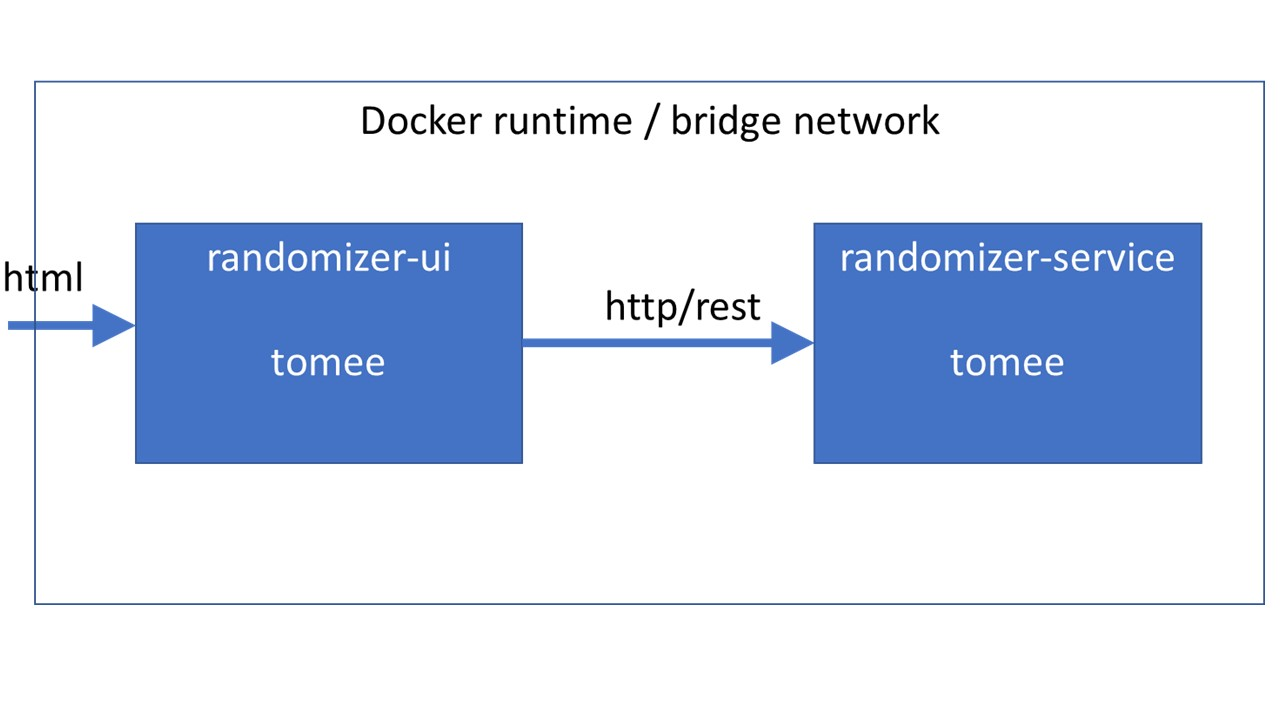
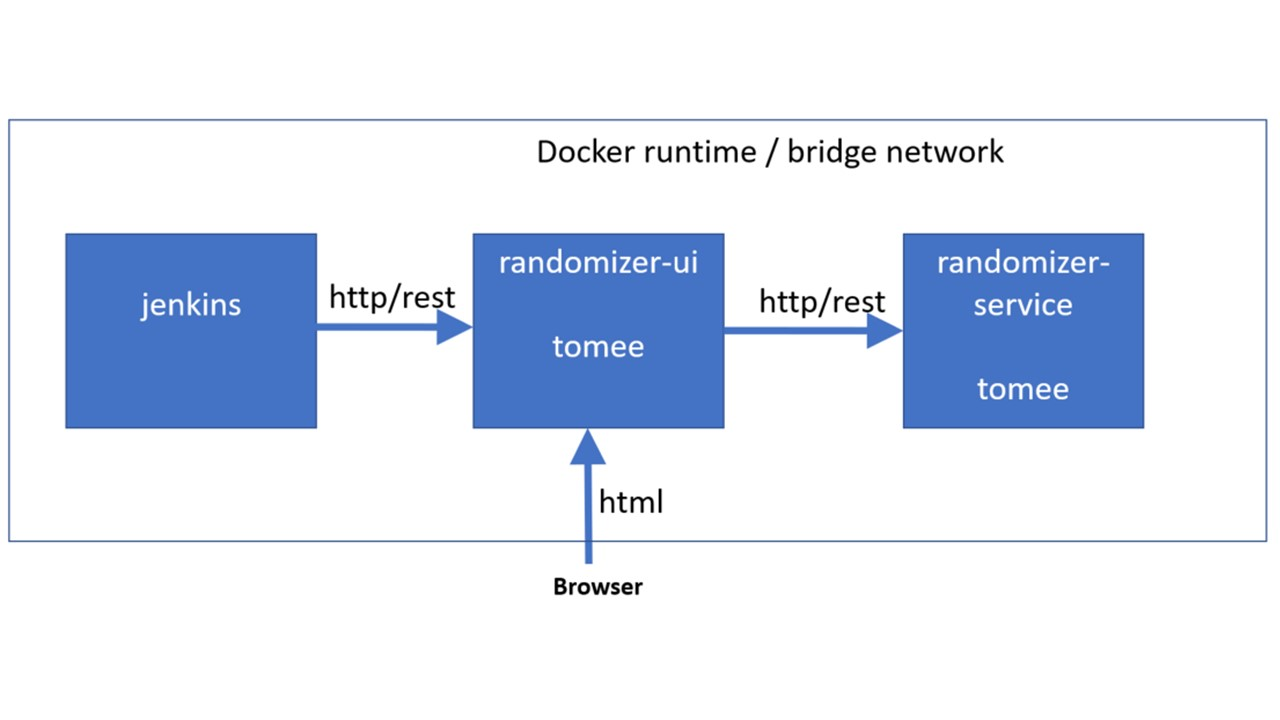
documentation

Changed region(s): [[0.0, 0.1528, 1.0, 0.8556], [0.0312, 0.0917, 0.9688, 0.1222]]

diff --git a/readme.html b/readme.html
@@ -1,0 +1,79 @@
+<p>We will keep the application logic very simplistic as we want to concentrate on DevOps: automated build, test and integration locally and on Jenkins.</p>
+<h2 id="get-the-basic-tools">Get the basic Tools</h2>
+<ul>
+<li>Download and install Java SE Development Kit 8 from <a href="https://www.oracle.com/technetwork/java/javase/downloads/jdk8-downloads-2133151.html" class="uri">https://www.oracle.com/technetwork/java/javase/downloads/jdk8-downloads-2133151.html</a>.</li>
+<li>Download and install Docker Desktop for Windows from <a href="https://docs.docker.com/docker-for-windows/install/" class="uri">https://docs.docker.com/docker-for-windows/install/</a>.</li>
+<li>Download and install Maven for Windows from <a href="https://maven.apache.org/download.cgi" class="uri">https://maven.apache.org/download.cgi</a>.</li>
+</ul>
+<h2 id="get-the-application">Get the Application</h2>
+<p>Clone the git repository</p>
+<pre><code>cd %homedrive%\%homepath%\git\
+git clone https://github.ibm.com/devops4us/randomizer.git</code></pre>
+<p>The following picture shows the architecture of our simple example application <code>Randomizer</code>.</p>
+<p><img src="pic001.jpg" /></p>
+<p>There are two servers in the runtime architecture. <code>randomizer-ui</code> is a HTML5 user interface application server based on the Vaadin Framework (<a href="https://vaadin.com/docs/index.html" class="uri">https://vaadin.com/docs/index.html</a>) and the Apache TomEE platform (<a href="http://tomee.apache.org/apache-tomee.html" class="uri">http://tomee.apache.org/apache-tomee.html</a>). The application is accessed from a browser. It demonstrates a simple UI visualising the generation of random numbers. The random generator itself is hosted on another server and is accessed from the user interface as HTTP/REST API. The <code>randomizer-ui</code> application server calls <code>randomizer-service</code>, which is also running on top of TomEE.</p>
+<p><strong>Development Environment:</strong> The developer can start each server locally on her development machine (Windows 10 Laptop in my case).</p>
+<p><strong>Test Environment:</strong> In order to be globally deployable for integration test, the servers are each packaged as docker images based on the TomeEE docker image (see <a href="https://docs.docker.com/samples/library/tomee/" class="uri">https://docs.docker.com/samples/library/tomee/</a>). Each server image runs in a separate docker container.</p>
+<h2 id="develop-the-servers-in-isolation">Develop the Servers in Isolation</h2>
+<p>Server Development often starts with isolated servers being started locally. This is especially true for the user interface server - the user interface can be tested by mocking away the backend services and provide test data. For our simplified sample, it is not necessary to mock the <code>randomizer-service</code>. In our UI application, in class <code>RandomizerBean</code>, if the service is not available, the value <code>-1</code> is simply generated as dummy random number.</p>
+<p>To run to UI service in isolation, execute the following in a DOS shell:</p>
+<pre><code>cd %homedrive%\%homepath%\git\randomizer\ui\
+mvn package tomee:run</code></pre>
+<p>If you see in the DOS shell that the server started successfully, open this URL in your favorite browser: <a href="http://localhost:9090/randomizer-ui" class="uri">http://localhost:9090/randomizer-ui</a>. If you click “Get Random Number from Server”, you’ll see -1 in the message box in your browser. This is ok, because the Randomizer Service is unavailable for now. We are still able to test the isolated UI, even if we get a dummy value instead of real random numbers.</p>
+<p>Note that we called the goal <code>tomee:run</code> in the maven command line above. The reason why we can do this is the TomEE Maven Plugin (<a href="http://tomee.apache.org/tomee-maven-plugin.html" class="uri">http://tomee.apache.org/tomee-maven-plugin.html</a>). If you include this plugin in your <code>pom.xml</code>, as we did, the above command line will start a local TomEE server which hosts just your web application, <code>randomizer-ui</code>in our case. See the TomEE documentation and the content of file <code>randomizer\ui\pom.xml</code>.</p>
+<h2 id="deploy-the-integrated-application-locally">Deploy the integrated Application locally</h2>
+<p>Now we enter the Docker world. A <em>Dockerfile</em> is used to define a docker image. Let’s take a look at file <code>.\Docker\ui\Dockerfile</code>.</p>
+<p><img src="pic003.jpg"/></p>
+<p>Line 1 defines the base image, which is a dockerized TomEE. Lines 2-3 configure the Tomcat Manager application to accept user/password <code>admin/admin</code> so we can access Tomcat Manager from the browser. Line 4 deploys the application <code>randomizer-ui</code> to TomEE as a web application by copying the package <code>randomizer-ui.war</code> to TomEE’s web application directory. The result of building with this Dockerfile is an image ready to be started as Docker container. Look at file <code>.\Docker\service\Dockerfile</code> which does the same for <code>randomizer-service</code>.</p>
+<p>Instead of starting each docker image manually with the docker command line, we use Docker Compose (<a href="https://docs.docker.com/compose/" class="uri">https://docs.docker.com/compose/</a>). With Compose, you define all the servers - the used images, their volume mappings, port mappings, networks, etc - in a single <em>Compose file</em>. They are then started and stopped together using Docker Compose command line. Note that beyond what is shown this tutorial, Docker Compose can be used to simplify various other tasks, e.g. access to the log files of all the running containers, see (<a href="https://docs.docker.com/compose/" class="uri">https://docs.docker.com/compose/</a>).</p>
+<p>Let’s have a look to the Compose file for our application, <code>.\Docker\docker-compose.yml</code>:</p>
+<p><img src="pic002.jpg"/></p>
+<p>Note that for each service, we define some networking parameters like networks (lines 4, 12), host name (lines 6, 1) and port mappings (lines 7-8, 15-16). As we do so, each service is accessible from within the Docker network by the defined host name and from outside by the defined ports. The characteristics of the Docker network itself are specified in lines 22-25, saying that our containers are be accessible from the virtual network <code>integration_net</code> which has to be defined elsewhere (<code>external</code>). Background is that the virtual network <code>integration_net</code> will be created and managed by the Jenkins build/integration server.</p>
+<p>The services are also accessible from the docker host (Windows 10 desktop in my case) as <code>localhost:9080</code> and <code>localhost:9090</code>. For instance, the user interface, once started in my local docker, is accessible from my Windows browser at URL <code>localhost:9090/randomizer-ui</code>. This is because we defined port mappings which make the docker containers accessible from the docker host machine.</p>
+<p>To start all the servers in Docker, Execute the following in a DOS shell:</p>
+<pre><code>cd %homedrive%\%homepath%\git\randomizer\Docker
+docker network create integration_net
+docker-compose up -d</code></pre>
+<p>Enter this URL in your favorite browser: <a href="http://localhost:9090/randomizer-ui" class="uri">http://localhost:9090/randomizer-ui</a>. If you click “Get Random Number from Server”, a positive number should appear in a message box. If you still see a -1, the Randomizer Service is not functioning. If you want to see the server logs, enter</p>
+<pre><code>cd %homedrive%\%homepath%\git\randomizer\Docker
+docker-compose logs</code></pre>
+<h2 id="run-local-integration-test">Run Local Integration Test</h2>
+<p>As we are able to launch all our servers in a local Docker, we can also run the server integration tests locally. For integration testing, we use the Maven lifecycle phases and the Maven Failsafe Plugin (<a href="http://maven.apache.org/surefire/maven-failsafe-plugin/" class="uri">http://maven.apache.org/surefire/maven-failsafe-plugin/</a>). The configuration can be viewed in file <code>.\ui\pom.xml</code> (the integration test cases are part of the ui project because in our example integration is tested via the ui service). In the POM-file, you can see that we configure a Maven profile named <code>integration-test</code> in which we do all the integration test preparation and execution.</p>
+<figure>
+<img src="pic004.jpg"/>
+<figcaption>
+<code>..xml</code>
+</figcaption>
+</figure>
+<p>The test preparation includes building the server images and starting the containers with <code>docker-compose</code> in lines 93-106. We use the Maven Antrun Plugin to execute the necessary <code>docker-compose</code> commands in the Maven <code>pre-integration-test</code> phase. After the integration test, we need to stop the containers, which is done in lines 107-117 above.</p>
+<p>To run the integration tests locally, execute the following in a DOS shell:</p>
+<pre><code>cd %homedrive%\%homepath%\git\git\randomizer\
+mvn -DPROFILE=integration -DRANDOMIZER_UI_NAME=localhost\^\
+-DRANDOMIZER_UI_PORT=9090 verify</code></pre>
+<h2 id="build-a-customized-jenkins-docker-image">Build a customized Jenkins Docker Image</h2>
+<p>The following ist the content of file <code>Jenkins\Jenkins-Dockerfile</code>. It is used to build the Jenkins Docker image.</p>
+<pre><code>1 from jenkinsci/blueocean
+2 USER root
+3 RUN apk add py-pip
+4 RUN apk add python-dev libffi-dev openssl-dev gcc libc-dev make
+5 RUN pip install docker-compose
+6 RUN apk add maven
+7 RUN adduser jenkins root
+8 COPY settings.xml /usr/share/java/maven-3/conf</code></pre>
+<p>Lines 3-5 install Docker Compose with the aid of python. Line 6 installs Maven. In line 7, we add ‘jenkins’ to the group of root users. This is necessary be able to access the docker daemon within the Jenkins server. Line 8 copies the customized maven configuration to Jenkins (this step is only necessary if you want to customize Maven).</p>
+<p>The Jenkins Blueocean image is available from Docker Hub: <a href="https://hub.docker.com/r/jenkinsci/blueocean/" class="uri">https://hub.docker.com/r/jenkinsci/blueocean/</a>. Look at this page: <a href="https://jenkins.io/doc/" class="uri">https://jenkins.io/doc/</a> for information on how to generally configure Jenkins. For information on how to install Docker Compose on Jenkins Blueocean, refer to this URL: <a href="https://wiki.alpinelinux.org/wiki/Docker" class="uri">https://wiki.alpinelinux.org/wiki/Docker</a>. For information on how to manage users and groups in the Linux Alpine image, see <a href="https://stackoverflow.com/questions/49955097/how-do-i-add-a-user-when-im-using-alpine-as-a-base-image" class="uri">https://stackoverflow.com/questions/49955097/how-do-i-add-a-user-when-im-using-alpine-as-a-base-image</a>.</p>
+<p>The following DOS shell commands create local Docker image jenkins-docker based on the above Dockerfile:</p>
+<pre><code>cd %homedrive%\\%homepath%\git\\randomizer\\Jenkins\
+docker image build -t jenkins-docker -f Jenkins-Dockerfile .</code></pre>
+<p>To start jenkins from the image the image <code>jenkins</code> image, run the following in a DOS shell:</p>
+<pre><code>docker network create integration_net
+ docker run^
+ -u jenkins^
+ -p 8080:8080 -p 50000:50000\^
+ -v //var/run/docker.sock:/var/run/docker.sock^
+ -v c:/volumeshare/jenkins_home:/var/jenkins_home^
+ --name jenkins^
+ --network=&quot;integration_net&quot;^
+ --rm^
+ -d^
+ jenkins-docker</code></pre>

diff --git a/readme.md b/readme.md
@@ -14,7 +14,7 @@ Get the Application
 Clone the git repository
 
  ```
- cd %homedrive%\%homepath%\
+ cd %homedrive%\%homepath%\git\
  git clone https://github.ibm.com/devops4us/randomizer.git
  ````
 
@@ -22,30 +22,32 @@ The following picture shows the architecture of our simple example application `
 
 <img src="pic001.jpg" width="50%" height="50%"/>
 
-There are two servers in the runtime architecture.
+There are two servers which implement our application as an integrated system.
 `randomizer-ui` is a HTML5 user interface application server based on the Vaadin Framework (<https://vaadin.com/docs/index.html>) and the Apache TomEE platform (<http://tomee.apache.org/apache-tomee.html>).
 The application is accessed from a browser. 
 It demonstrates a simple UI visualising the generation of random numbers.
 The random generator itself is hosted on another server and is accessed from the user interface as HTTP/REST API.
-The `randomizer-ui` application servier calls a rest API from `randomizer-service`, which is a rest service also running on top of TomEE.
+The `randomizer-ui` application server calls `randomizer-service`, which is also running on top of TomEE.
 
 **Development Environment:** The developer can start each server locally on her development machine (Windows 10 Laptop in my case).
 
 **Test Environment:** In order to be globally deployable for integration test, the servers are each packaged as docker images based on the TomeEE docker image (see <https://docs.docker.com/samples/library/tomee/>).
 Each server image runs in a separate docker container. 
+For build and integration, we use Jenkins in a dockerized version. 
+To test the integrated servers, Jenkins calls a rest service from `randomizer-ui` which in turn calls `randomizer-service`. 
 
-Develop UI (without Service) and Service in Isolation
+Develop the Servers in Isolation
 -------------------------------------------------------------------------------------
 
 Server Development often starts with isolated servers being started locally. 
 This is especially true for the user interface server - the user interface can be tested by mocking away the backend services and provide test data.
 For our simplified sample, it is not necessary to mock the `randomizer-service`.
-In our UI application, in class `RandomizerBean`, if the service is not available, the value `-1` is simply generated as random number. 
+In our UI application, in class `RandomizerBean`, if the service is not available, the value `-1` is simply generated as dummy random number. 
 
-To start to UI service in isolation, execute the following in a DOS shell:
+To run to UI service in isolation, execute the following in a DOS shell:
 
  ```
-cd %homedrive%\%homepath%\randomizer\ui\
+cd %homedrive%\%homepath%\git\randomizer\ui\
 mvn package tomee:run
  ```
 
@@ -57,36 +59,105 @@ We are still able to test the isolated UI, even if we get a dummy value instead 
 Note that we called the goal `tomee:run` in the maven command line above. 
 The reason why we can do this is the TomEE Maven Plugin (<http://tomee.apache.org/tomee-maven-plugin.html>). 
 If you include this plugin in your `pom.xml`, as we did, the above command line will start a local TomEE server which hosts just your web application, `randomizer-ui`in our case.
-See the TomEE documentation and the file `randomizer\ui\pom.xml`.    
+See the TomEE documentation and the content of file `randomizer\ui\pom.xml`.    
 
-Deploy and Test the integrated Application locally
+Deploy the integrated Application locally
 -----------------------------------------------------
 
-Execute the following in a DOS shell:
+Now we enter the Docker world. 
+A *Dockerfile* is used to define a docker image.
+Let's take a look at file `.\Docker\ui\Dockerfile`.
+
+<img src="pic003.jpg"/> 
+
+Line 1 defines the base image, which is a dockerized TomEE.
+Lines 2-3 configure the Tomcat Manager application to accept user/password `admin/admin` so we can access Tomcat Manager from the browser.
+Line 4 deploys the application `randomizer-ui` to TomEE as a web application by copying the package `randomizer-ui.war` to TomEE's web application directory.
+The result of building with this Dockerfile is an image ready to be started as Docker container. 
+Look at file `.\Docker\service\Dockerfile` which does the same for `randomizer-service`.   
+
+Instead of starting each docker image manually with the docker command line, we use Docker Compose (<https://docs.docker.com/compose/>). 
+With Compose, you define all the servers - the used images, their volume mappings, port mappings, networks, etc - in a single *Compose file*. 
+They are then started and stopped together using Docker Compose command line.
+Note that beyond what is shown this tutorial, Docker Compose can be used to simplify various other tasks, e.g. access to the log files of all the running containers, see  (<https://docs.docker.com/compose/>).
+
+Let's have a look to the Compose file for our application, `.\Docker\docker-compose.yml`:
+
+<img src="pic002.jpg"/>
+
+Note that for each service, we define some networking parameters like networks (lines 4, 12), host name (lines 6, 1) and port mappings (lines 7-8, 15-16). 
+As we do so, each service is accessible from within the Docker network by the defined host name and from outside by the defined ports.
+The characteristics of the Docker network itself are specified in lines 22-25, saying that our containers are be accessible from the virtual network `integration_net` which has to be defined elsewhere (`external`).
+Background is that the virtual network `integration_net` will be created and managed by the Jenkins build/integration server.  
+
+The services are also accessible from the docker host (Windows 10 desktop in my case) as `localhost:9080` and `localhost:9090`. 
+For instance, the user interface, once started in my local docker, is accessible from my Windows browser at URL `localhost:9090/randomizer-ui`. 
+This is because we defined port mappings which make the docker containers accessible from the docker host machine.
+
+To start all the servers in Docker, Execute the following in a DOS shell:
 
 ```
-cd %homedrive%\%homepath%\randomizer\
+cd %homedrive%\%homepath%\git\randomizer\Docker
+docker network create integration_net
 docker-compose up -d
  ```
 
-Enter this URL in your favorite browser: <http://localhost:8080/randomizer-ui>. 
+Enter this URL in your favorite browser: <http://localhost:9090/randomizer-ui>. 
 If you click "Get Random Number from Server", a positive number should appear in a message box.
 If you still see a -1, the Randomizer Service is not functioning.
+If you want to see the server logs, enter
+
+```
+cd %homedrive%\%homepath%\git\randomizer\Docker
+docker-compose logs
+```
 
 Run Local Integration Test
------------------------------
+----------------------------
+
+As we are able to launch all our servers in a local Docker, we can also run the server integration tests locally. 
+For integration testing, we use the Maven lifecycle phases and the Maven Failsafe Plugin (<http://maven.apache.org/surefire/maven-failsafe-plugin/>).
+The configuration can be viewed in file `.\ui\pom.xml` (the integration test cases are part of the ui project because in our example integration is tested via the ui service).
+In the POM-file, you can see that we configure a Maven profile named `integration-test` in which we do all the integration test preparation and execution. 
+
+<figure>
+<img src="pic004.jpg"/>
+<figcaption><code>.\ui\pom.xml</code></figcaption>
+</figure>
+
+The test preparation includes building the server images and starting the containers with `docker-compose` in lines 93-106.
+We use the Maven Antrun Plugin to execute the necessary `docker-compose` commands in the Maven `pre-integration-test` phase. 
+After the integration test, we need to stop the containers, which is done in lines 107-117. 
 
 To run the integration tests locally, execute the following in a DOS shell:
 
 ```
-cd %homedrive%\%homepath%\randomizer\
-mvn -DPROFILE=integration -DRANDOMIZER_UI_NAME=localhost\^\
--DRANDOMIZER_UI_PORT=9090 verify
+cd %homedrive%\%homepath%\git\git\randomizer\
+mvn -DPROFILE=integration -DRANDOMIZER_UI_NAME=localhost^
+        -DRANDOMIZER_UI_PORT=9090 verify
 ```
 
-Build a customized Jenkins Docker Image
----------------------------------------
-The follofing ist the content of file `Jenkins\Jenkins-Dockerfile`. It is used to build the Jenkins Docker image.
+As we use the Maven Failsafe Plugin, the test classes with a class name ending with `IT` are being run for test in phase `integration-test` by convention. 
+In our case, class `com.ibm.demo.RandomizerIT` is being run. 
+The test results are saved as Failsafe reports in directory `.\ui\target\failsafe-reports\`.
+Note that this is an integration test; we do not test the function of the user interface here. 
+For that reason, `ui-server` provides an endpoint `http://localhost:9090/randomizer-ui/random`, which returns a random number - if the call to this URL succeeds with a positive number, we know that both servers, `randomizer-ui` and `randomizer-service`, are deployed correctly and work with each other.
+The integration test class `com.ibm.demo.RandomizerIT` calls this URL and reports success if a positive number is returned.
+
+
+Build a Jenkins Docker Image 
+-------------------------------------  
+
+Now we enter the world of Continuous Integration servers, Jenkins in our case.
+This means that for our whole development project, we will build the components periodically from the source repository, deploy them in a test environment, and test if they work together correctly.
+* Jenkins can automatically build, deploy and test the integrated servers. 
+This can be done on each change in the main branch or periodically.
+This is why may call the process *contiuous integration*.
+* Each integration test run is recorded by Jenkins and available for review with all the test results via the Jenkins user interface
+* The integration test servers are started and stopped with Docker Compose as needed and on demand - no integration test environment is allocated permanently  
+
+
+The following ist the content of file `Jenkins\Jenkins-Dockerfile`. It is used to build the Jenkins Docker image.
 
 ```
 1 from jenkinsci/blueocean
@@ -114,7 +185,7 @@ The following DOS shell commands create local Docker image
 jenkins-docker based on the above Dockerfile:
 
 ```
-cd %homedrive%\\%homepath%\\randomizer\\Jenkins\
+cd %homedrive%\\%homepath%\git\\randomizer\\Jenkins\
 docker image build -t jenkins-docker -f Jenkins-Dockerfile .
 ```
 
